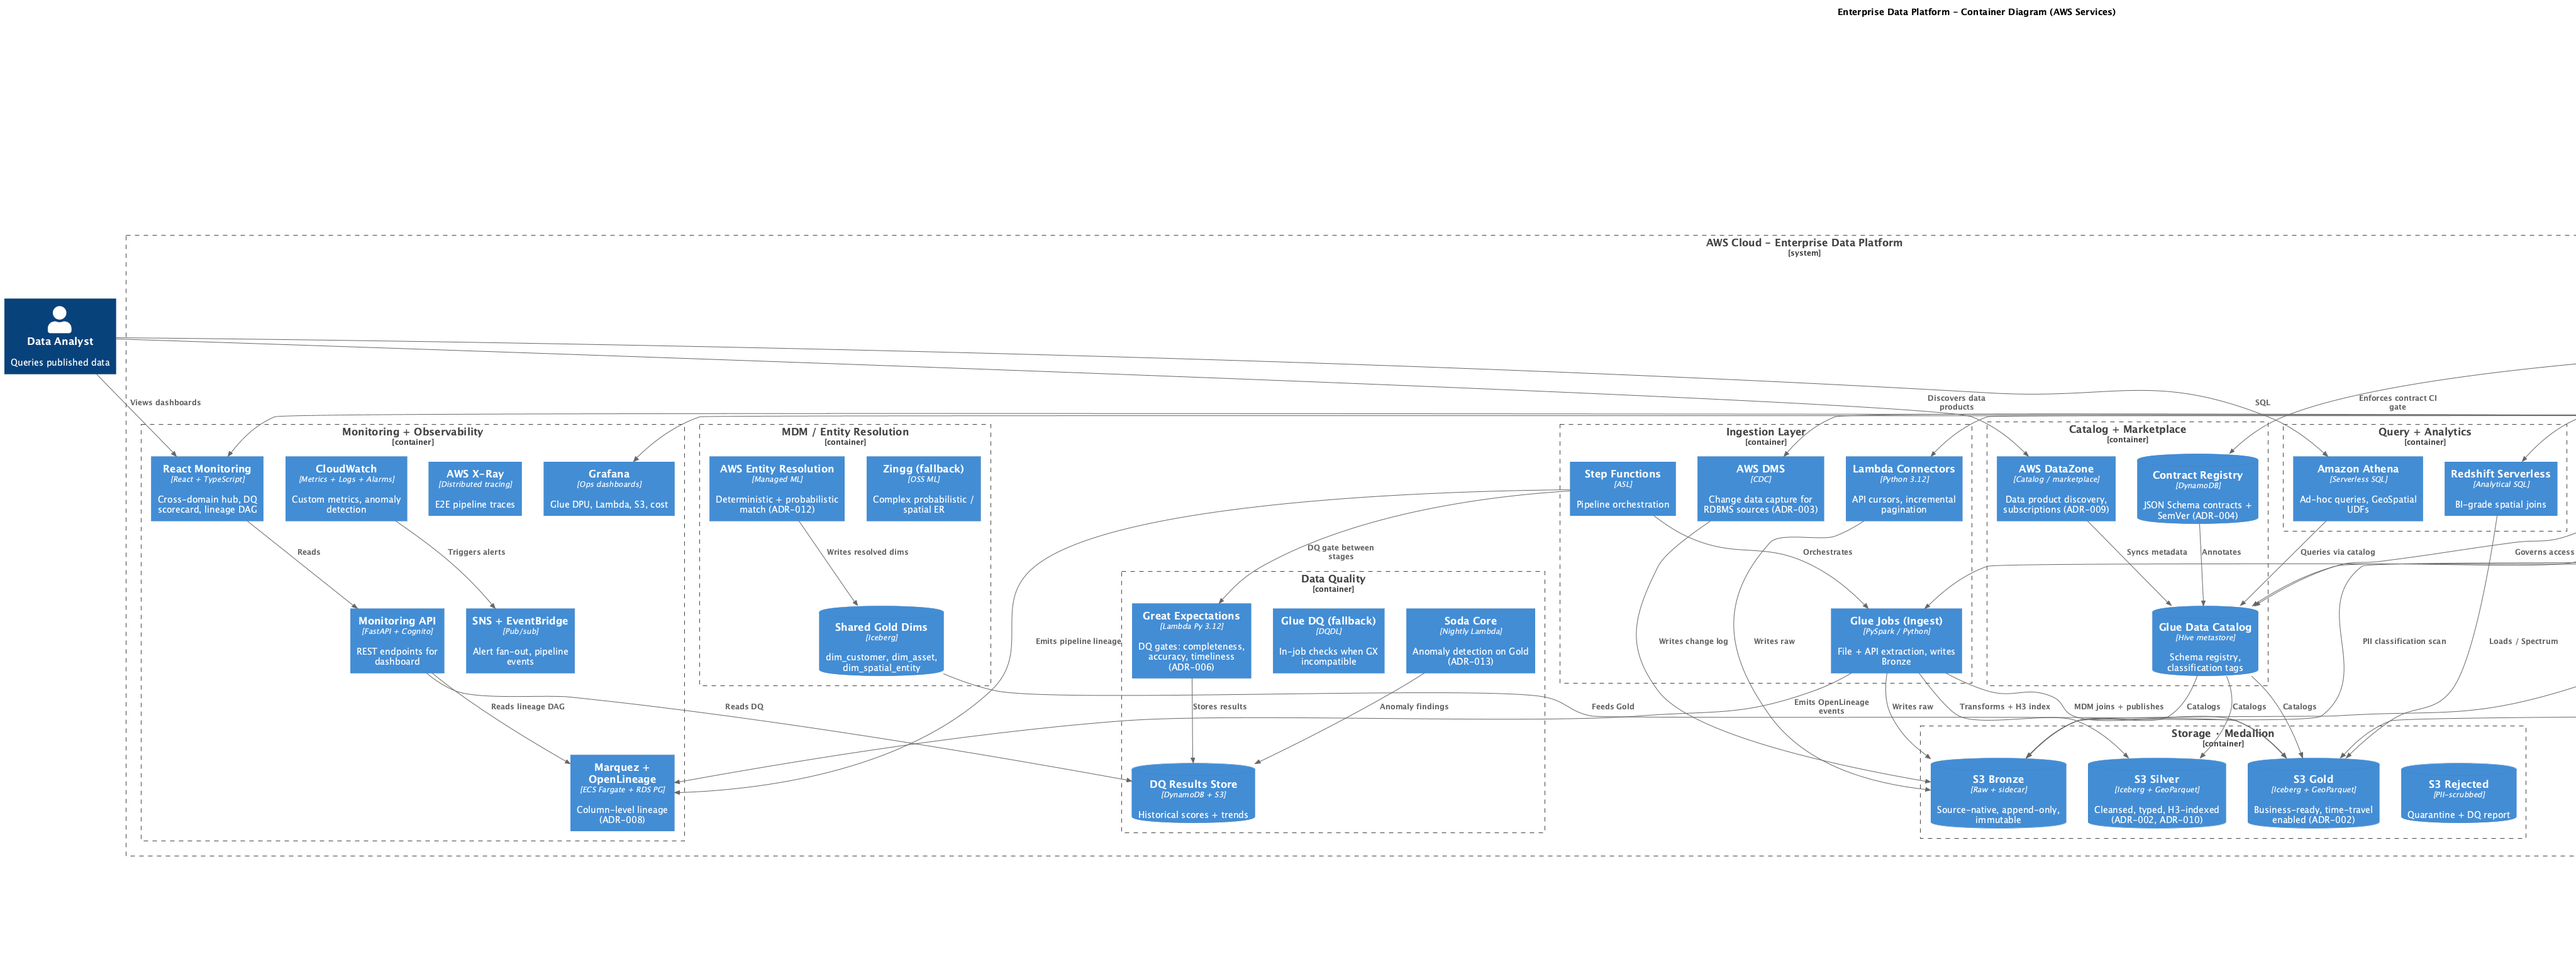
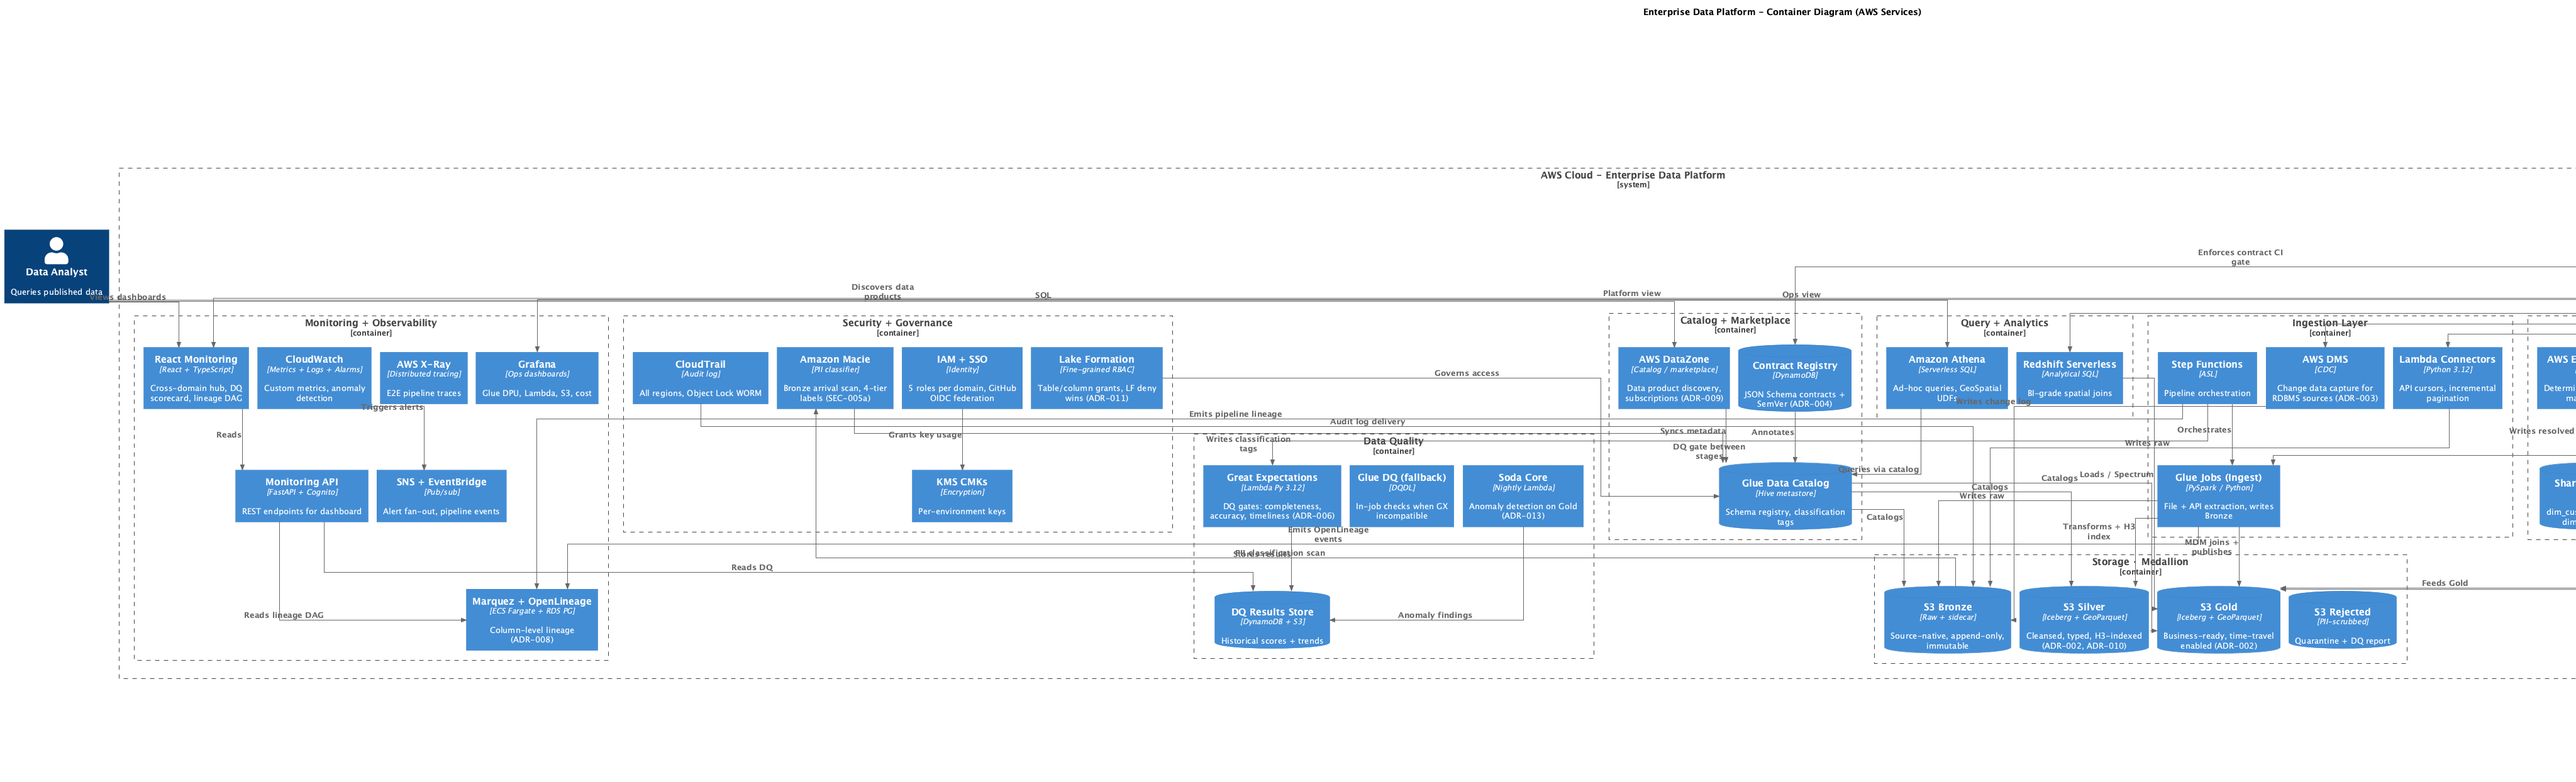
Re-render PUMLs with tighter layout + full-width slide 7 + new slide 7b
PUML source tightening:
- skinparam nodesep/ranksep reduced for denser packing
- skinparam linetype ortho (cleaner right-angle routes)
- defaultFontSize bumped down for more content density

Rendered dimensions:
- c4-context.png    1775 × 704  (unchanged — already optimal)
- c4-container.png  4096 × 1244 (was 1528 — 19% flatter)
- c4-component-pipeline.png  1515 × 1853  (was 1864 × 2808 — 46% smaller overall)

Slide layout changes:
- Slide 7 (Container): removed sidebar card, diagram gets full slide width.
  Wide PUML now scales to ~1100 × 335px — readable at projector distance.
- Slide 7b (Component, NEW): full-slide portrait-shaped pipeline diagram.
  Brings the reference-pipeline detail onto its own slide instead of
  linked-only.

Supporting:
- .diagram-full CSS class for full-width diagram slots
- Agenda updated: item 08 = Reference Pipeline; Migration+Adoption merged
  into one topic to keep total at 30 (fits 10-row grid)

diff --git a/index.html b/index.html
@@ -424,6 +424,26 @@
   }
   .c4-container-row .diagram-box { padding: 4px; }
 
+  /* Full-width diagram slots (slide 7, 7b) — maximize diagram real estate */
+  .diagram-full {
+    flex: 1;
+    display: flex;
+    align-items: center;
+    justify-content: center;
+    min-height: 0;
+    margin: 4px 0;
+    padding: 8px;
+    background: radial-gradient(ellipse 70% 60% at center, rgba(0, 246, 255, 0.04), transparent 75%);
+    border-radius: 6px;
+  }
+  .diagram-full .c4-img {
+    max-height: 540px;
+    max-width: 100%;
+  }
+  .diagram-full.diagram-tall .c4-img {
+    max-height: 560px;
+  }
+
   /* ── Terminal / CI output blocks ───────────────────────────────────────── */
   pre.ci-output {
     font-family: var(--fs-mono);
@@ -1295,27 +1315,27 @@
     <div class="item"><span class="num">04</span>Business Outcomes &amp; KPIs</div>
     <div class="item"><span class="num">05</span>Pipeline Prioritization</div>
     <div class="item"><span class="num">06</span>Architecture Decisions (14 ADRs)</div>
-    <div class="item"><span class="num">07</span>Solution Architecture (C4)</div>
-    <div class="item"><span class="num">08</span>Domain Template</div>
-    <div class="item"><span class="num">09</span>Medallion · Iceberg · Geo</div>
-    <div class="item"><span class="num">10</span>Data Governance &amp; Mesh</div>
-    <div class="item"><span class="num">11</span>Data Quality Framework</div>
-    <div class="item"><span class="num">12</span>Monitoring &amp; Observability</div>
-    <div class="item"><span class="num">13</span>NFRs &amp; SLOs</div>
-    <div class="item"><span class="num">14</span>AI Acceleration</div>
-    <div class="item"><span class="num">15</span>CI/CD &amp; DevOps</div>
-    <div class="item"><span class="num">16</span>Data Contract CI Gate</div>
-    <div class="item"><span class="num">17</span>Security &amp; Access Control</div>
-    <div class="item"><span class="num">18</span>End-to-End User Journey</div>
-    <div class="item"><span class="num">19</span>MVP / Thin-Slice Strategy</div>
-    <div class="item"><span class="num">20</span>Delivery Approach</div>
-    <div class="item"><span class="num">21</span>Roadmap &amp; Critical Path</div>
-    <div class="item"><span class="num">22</span>Team &amp; Resource Plan</div>
-    <div class="item"><span class="num">23</span>Risk Management</div>
-    <div class="item"><span class="num">24</span>ROM Financial Proposal</div>
-    <div class="item"><span class="num">25</span>Assumptions &amp; Dependencies</div>
-    <div class="item"><span class="num">26</span>Migration Strategy</div>
-    <div class="item"><span class="num">27</span>Adoption Plan</div>
+    <div class="item"><span class="num">07</span>C4 Context + Container</div>
+    <div class="item"><span class="num">08</span>Reference Pipeline (C4 Component)</div>
+    <div class="item"><span class="num">09</span>Domain Template</div>
+    <div class="item"><span class="num">10</span>Medallion · Iceberg · Geo</div>
+    <div class="item"><span class="num">11</span>Data Governance &amp; Mesh</div>
+    <div class="item"><span class="num">12</span>Data Quality Framework</div>
+    <div class="item"><span class="num">13</span>Monitoring &amp; Observability</div>
+    <div class="item"><span class="num">14</span>NFRs &amp; SLOs</div>
+    <div class="item"><span class="num">15</span>AI Acceleration</div>
+    <div class="item"><span class="num">16</span>CI/CD &amp; DevOps</div>
+    <div class="item"><span class="num">17</span>Data Contract CI Gate</div>
+    <div class="item"><span class="num">18</span>Security &amp; Access Control</div>
+    <div class="item"><span class="num">19</span>End-to-End User Journey</div>
+    <div class="item"><span class="num">20</span>MVP / Thin-Slice Strategy</div>
+    <div class="item"><span class="num">21</span>Delivery Approach</div>
+    <div class="item"><span class="num">22</span>Roadmap &amp; Critical Path</div>
+    <div class="item"><span class="num">23</span>Team &amp; Resource Plan</div>
+    <div class="item"><span class="num">24</span>Risk Management</div>
+    <div class="item"><span class="num">25</span>ROM Financial Proposal</div>
+    <div class="item"><span class="num">26</span>Assumptions &amp; Dependencies</div>
+    <div class="item"><span class="num">27</span>Migration &amp; Adoption</div>
     <div class="item"><span class="num">28</span>Why EPAM</div>
     <div class="item"><span class="num">29</span>References · Q&amp;A</div>
     <div class="item"><span class="num">30</span>Appendix B · Microsoft refs</div>
@@ -1592,28 +1612,24 @@
 <!-- ═══ SLIDE 7: C4 Container (AWS) ═══ -->
 <section>
   <h2>Solution Architecture — AWS Container View</h2>
-  <div class="diagram-row c4-container-row">
-    <div class="diagram-box">
-      <img src="docs/architecture/c4/c4-container.png" alt="C4 Container diagram — AWS service map" class="c4-img">
-    </div>
-    <div class="card">
-      <h3>Layer summary</h3>
-      <div class="card-content">
-        <table>
-          <tr><td class="mint">Ingest</td><td>Glue · Lambda · Step Functions · DMS</td></tr>
-          <tr><td class="mint">Storage</td><td>S3 Medallion · <strong>Iceberg</strong></td></tr>
-          <tr><td class="mint">Catalog</td><td>Glue Catalog · DataZone</td></tr>
-          <tr><td class="mint">Query</td><td>Athena · Redshift Serverless</td></tr>
-          <tr><td class="mint">DQ</td><td>Great Expectations (Lambda)</td></tr>
-          <tr><td class="mint">Obs</td><td>CloudWatch · X-Ray · OpenLineage</td></tr>
-          <tr><td class="mint">Security</td><td>Lake Formation · KMS · Macie</td></tr>
-          <tr><td class="mint">CI/CD + AI</td><td>GH Actions · CodeBuild · Bedrock</td></tr>
-        </table>
-      </div>
-    </div>
+  <p class="slide-sub">9 boundaries · 36 containers · Iceberg storage · DataZone catalog · OpenLineage + Marquez lineage · Lake Formation authoritative · AI agents via Bedrock</p>
+  <div class="diagram-full">
+    <img src="docs/architecture/c4/c4-container.png" alt="C4 Container diagram — AWS service map" class="c4-img">
   </div>
   <div class="slide-footer">
     <p class="muted">All serverless or managed — no EC2 instances to maintain. Source: <a href="https://github.com/AKharytonchyk/assessment-rfp/blob/main/docs/architecture/c4/c4-container.puml" target="_blank" rel="noopener"><code>c4-container.puml</code></a></p>
+  </div>
+</section>
+
+<!-- ═══ SLIDE 7b: C4 Component — Reference Pipeline ═══ -->
+<section>
+  <h2>Reference Pipeline — Component View</h2>
+  <p class="slide-sub">Every pipeline inherits this shape · Iceberg <code>MERGE INTO</code> on Silver/Gold · contract-validated · PII-scrubbed quarantine · OpenLineage emitted at every stage · replay from snapshot</p>
+  <div class="diagram-full diagram-tall">
+    <img src="docs/architecture/c4/c4-component-pipeline.png" alt="C4 Component diagram — reference pipeline" class="c4-img">
+  </div>
+  <div class="slide-footer">
+    <p class="muted">Source: <a href="https://github.com/AKharytonchyk/assessment-rfp/blob/main/docs/architecture/c4/c4-component-pipeline.puml" target="_blank" rel="noopener"><code>c4-component-pipeline.puml</code></a></p>
   </div>
 </section>
 
